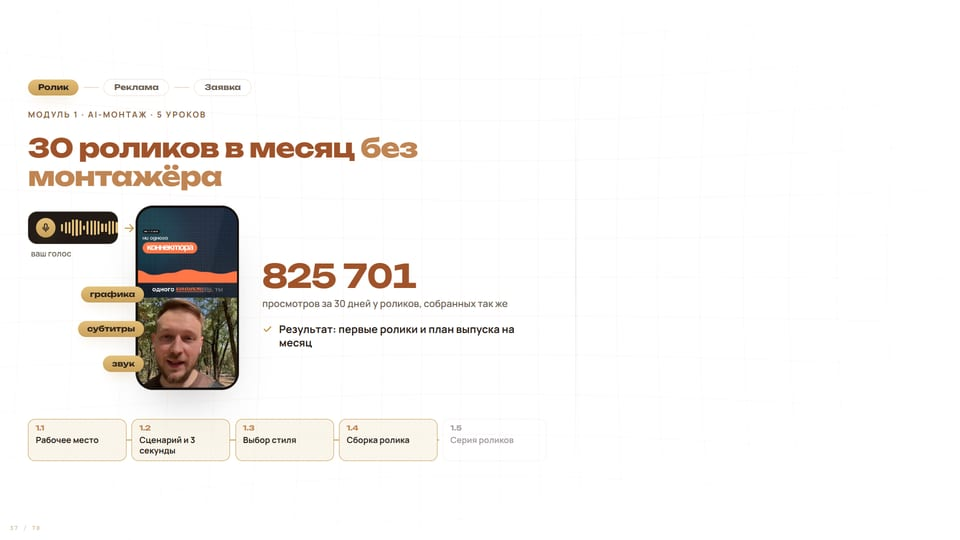
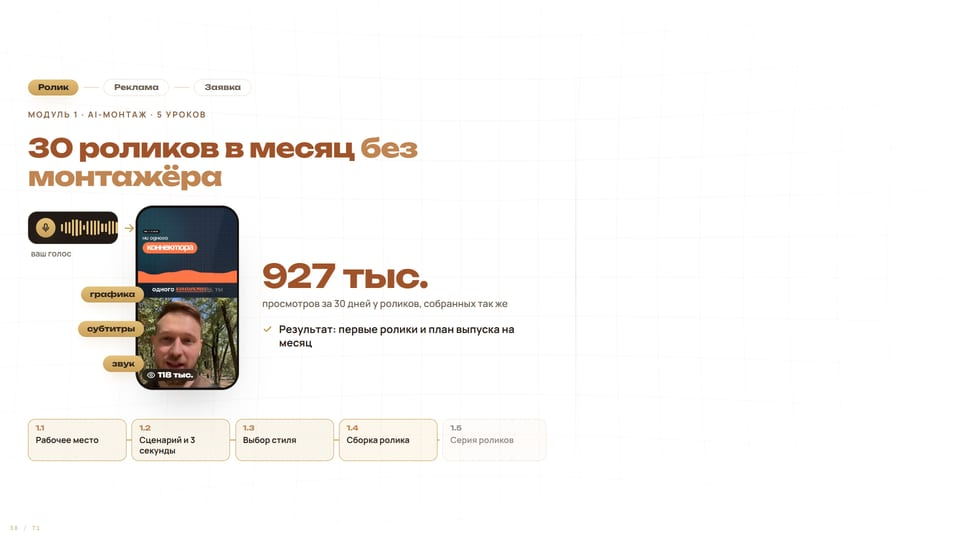
Deck: views summed across Instagram, TikTok and YouTube from 6 Oct screenshots (927k), 10g shows three platform screenshots; cover and link preview say today at 20:00 instead of a date

Changed region(s): [[0.125, 0.5037, 0.25, 0.7111], [0.25, 0.4741, 0.4688, 0.5333]]

diff --git a/components/montage-deck/results.ts b/components/montage-deck/results.ts
@@ -16,22 +16,22 @@ export const RESULTS = {
   /** Месяц в заголовках слайдов результатов 46r и 47r (вне показа 6 октября). */
   month: "Сентябрь",
 
-  /**
-   * 22r · «30 дней: что смонтировал агент». Срез 4 октября 2026, три площадки (docs/tasks/deck_wave2.json).
-   * 825 701 — сумма просмотров Instagram, TikTok и YouTube: не число людей, не охват.
-   */
+  /** Сумма просмотров трёх площадок со скринов 6 октября (RESULTS.growth.platforms): 784 967 + 98 418 + 44,4 тыс. ≈ 927 800.
+   * YouTube Studio округляет до сотен, поэтому на слайдах «927 тыс.». Не число людей, не охват. */
+  totalViews: "927 тыс.",
+  totalViewsNum: 927, // для счётчика, тысячи
+
+  /** 22r · «30 дней: что смонтировал агент». Главная цифра — сумма трёх площадок (totalViews). */
   montage: {
     title: "30 дней: что смонтировал агент",
-    views: 825701 as Stat, // главная цифра
-    viewsLabel: "просмотр в Instagram, TikTok и YouTube",
+    views: "927 тыс." as Stat | string, // главная цифра, как totalViews
+    viewsLabel: "просмотров в Instagram, TikTok и YouTube",
     small: [
       { value: 852, label: "подписчика с одного рилса" }, // без «за 30 дней»: в карточке рилса нет периода
-      { value: 45561, label: "взаимодействие в Instagram" },
-      { value: 1714, label: "чистый прирост подписчиков" }, // 2 321 новых минус 607 отписок, Instagram API
+      { value: 59047, label: "взаимодействий в Instagram" }, // Meta API 05.10, раздатки «00 Аналитика на 05.10»
+      { value: "+1 935", label: "чистый прирост подписчиков" }, // панель Instagram, скрин 06.10 (Telegram Desktop, IMG_8103)
     ] as StatItem[],
-    /** Полоса из 4 обложек залетевших рилсов: имена файлов в public/montage/reels/ (без .jpg), собирает docs/deck-v2/build-handout-assets.mjs. */
-    covers: ["hit-connectors", "hit-gitingest", "hit-artemis", "hit-semrush"],
-    source: "Instagram, TikTok, YouTube · 4 сентября — 3 октября 2026 · срез 4 октября",
+    source: "Instagram и YouTube за 30 и 28 дней, TikTok 30 августа – 26 сентября · скрины 6 октября 2026",
   },
 
   /** 46r · «Сентябрь: ИИ-бот в директе». Статистика бота за весь месяц. */
@@ -101,18 +101,20 @@ export const RESULTS = {
   viralSource: "Instagram · профессиональная панель, топ контента по просмотрам · 5 октября 2026" as string | null,
 
   /**
-   * 10g · «30 дней: охваты и подписчики». Instagram, профессиональная панель, срез 5 октября 2026 (скрины раздаток, 16:50).
-   * Скрины — public/montage/results/growth-reach.* и growth-followers.*; цифры в карточках ровно с этих скринов.
+   * 10g · «30 дней: просмотры на трёх площадках». Скрины Александра 6 октября 2026, 00:49–00:50 (Telegram Desktop, IMG_8101–8103),
+   * обрезаны без статус-бара: public/montage/results/<file>.jpg. Цифры под скринами ровно с них, периоды как в приложениях.
    */
   growth: {
-    reachShot: "growth-reach", // просмотры 784 840, 8,3% / 91,7%, зрители 342 807
-    followersShot: "growth-followers", // подписчики 16 402 и часы наибольшей активности
+    platforms: [
+      { file: "growth-ig", name: "Instagram", views: "784 967", period: "30 дней" },
+      { file: "growth-tiktok", name: "TikTok", views: "98 418", period: "30 авг – 26 сен" },
+      { file: "growth-youtube", name: "YouTube", views: "44,4 тыс.", period: "28 дней" },
+    ],
     stats: [
-      { value: 16402, label: "подписчиков сейчас" },
-      { value: 342807, label: "зрителей за 30 дней" },
-      { value: "91,7%", label: "просмотров от неподписчиков" },
+      { value: "+1 935", label: "чистый прирост подписчиков в Instagram" },
+      { value: "91,7%", label: "просмотров Instagram от неподписчиков" },
     ] as StatItem[],
-    source: "Instagram, последние 30 дней · срез 5 октября 2026 · профессиональная панель" as string | null,
+    source: "Скрины Instagram, TikTok и YouTube Studio, 6 октября 2026. Просмотры сложены, это не число людей" as string | null,
   },
 
   /** 10i · «Обращения за 30 дней»: одна цифра. 101 человек дошёл до раздела с предложениями в директ-боте AI-РОП, без разбивки по услугам и обучению. */

diff --git a/components/montage-deck/slides/results.tsx b/components/montage-deck/slides/results.tsx
@@ -40,7 +40,7 @@ const SmallStat = ({ value, label, i }: { value: Stat | string; label: string; i
 };
 
 /** Главная цифра: объёмная, коричневая. Пустая — спокойное «—» с подписью и пометкой, без объёма. */
-const MainStat = ({ value, label, size }: { value: Stat; label: string; size: string }) =>
+const MainStat = ({ value, label, size }: { value: Stat | string; label: string; size: string }) =>
   value == null ? (
     <In i={0}>
       <Num size={size} color={T.line}>—</Num>
@@ -50,7 +50,7 @@ const MainStat = ({ value, label, size }: { value: Stat; label: string; size: st
       </div>
     </In>
   ) : (
-    <div style={{ marginTop: "1.4cqw" }}><ExtrudedNumber value={fmtStat(value)} label={label} size={size} /></div>
+    <div style={{ marginTop: "1.4cqw" }}><ExtrudedNumber value={typeof value === "string" ? value : fmtStat(value)} label={label} size={size} /></div>
   );
 
 /** 22r · 30 дней: что смонтировал агент. Цифры и подписи — RESULTS.montage (срез 4 октября, три площадки). */
@@ -129,26 +129,39 @@ export function M_ViralReels({ shots = [] }: { shots?: (string | undefined)[] })
   );
 }
 
-/** 10g · 30 дней: охваты и подписчики. Два скрина панели Instagram на плитах, справа три цифры ровно с этих скринов (RESULTS.growth). */
-export function M_Growth30({ reach, followers }: { reach?: string; followers?: string }) {
+/**
+ * 10g · 30 дней: просмотры на трёх площадках. Три скрина (Instagram, TikTok, YouTube Studio) на плитах, под каждым его цифра
+ * и период, справа сумма и две цифры Instagram. Всё ровно со скринов 6 октября (RESULTS.growth, RESULTS.totalViews).
+ */
+export function M_Growth30({ shots = [] }: { shots?: (string | undefined)[] }) {
   const g = RESULTS.growth;
   return (
-    <Statement kicker="Результаты · 30 дней" title={<>30 дней: <Em>охваты и подписчики</Em></>} size="2.6cqw">
-      <div className="grid items-center gap-[1.4cqw]" style={{ gridTemplateColumns: "15cqw 15cqw minmax(0, 1fr)", maxWidth: "54cqw" }}>
-        <div style={{ height: "25cqw" }}>
-          <ScreenStage3D src={reach} alt="Просмотры, подписчики и неподписчики за 30 дней" empty={`Сюда скрин просмотров за 30 дней: results/${g.reachShot}.png`} />
-        </div>
-        <div style={{ height: "25cqw" }}>
-          <ScreenStage3D src={followers} alt="Подписчики и часы наибольшей активности" empty={`Сюда скрин подписчиков: results/${g.followersShot}.png`} />
-        </div>
+    <Statement kicker="Результаты · 30 дней" title={<>{nbsp(RESULTS.totalViews)} просмотров <Em>на трёх площадках</Em></>} size="2.6cqw">
+      <div className="grid items-center gap-[1.4cqw]" style={{ gridTemplateColumns: "repeat(3, 10.4cqw) minmax(0, 1fr)", maxWidth: "54cqw" }}>
+        {g.platforms.map((p, i) => (
+          <In key={p.file} i={i}>
+            <div style={{ height: "17cqw" }}>
+              <ScreenStage3D src={shots[i]} alt={`${p.name}: ${p.views} просмотров, ${p.period}`} empty={`Сюда скрин ${p.name}: results/${p.file}.jpg`} />
+            </div>
+            <div style={{ marginTop: "0.9cqw" }}>
+              <div style={{ ...lbl, fontSize: "0.72cqw", fontWeight: 700, letterSpacing: ".12em", textTransform: "uppercase", color: T.accent }}>{p.name}</div>
+              <Num size="1.5cqw" color={T.brown}>{p.views}</Num>
+              <div style={{ ...lbl, fontSize: "0.7cqw" }}>{p.period}</div>
+            </div>
+          </In>
+        ))}
         <div className="grid gap-[0.7cqw]">
-          {g.stats.map((s, i) => <SmallStat key={s.label} i={i + 1} value={s.value} label={s.label} />)}
+          <SmallStat i={3} value={RESULTS.totalViews} label="просмотров всего" />
+          {g.stats.map((s, i) => <SmallStat key={s.label} i={i + 4} value={s.value} label={s.label} />)}
         </div>
       </div>
-      <Note style={{ marginTop: "1cqw" }}>{g.source ?? <>Источник: <Fill>статистика Instagram, даты периода</Fill></>}</Note>
+      <Note style={{ marginTop: "1cqw" }}>{g.source ?? <>Источник: <Fill>статистика площадок, даты периода</Fill></>}</Note>
     </Statement>
   );
 }
+
+/** Неразрывные пробелы внутри цифры: «927 тыс.» не рвётся на две строки. */
+const nbsp = (s: string) => s.replace(/ /g, " ");
 
 /**
  * 10i · Обращения за 30 дней: объёмная цифра (RESULTS.inquiries) и справа макет Instagram Direct с типичными запросами

diff --git a/components/montage-deck/slides/start.tsx b/components/montage-deck/slides/start.tsx
@@ -189,17 +189,17 @@ export function M_CostStory() {
 }
 
 /**
- * 10 · 30 дней: 825 701 просмотр на трёх площадках, по 5 рилсов в день. Под цифрами бесконечная лента обложек рилсов
+ * 10 · 30 дней: 927 тыс. просмотров на трёх площадках, по 5 рилсов в день. Под цифрами бесконечная лента обложек рилсов
  * со счётчиком просмотров из приложения Instagram (RESULTS.appCovers, раздатки 05.10, папка 04).
- * Цифры из docs/tasks/deck_wave2.json, срез 4 октября. 825 701 — сумма просмотров трёх площадок, не число людей.
+ * 927 тыс. — сумма трёх площадок со скринов 6 октября (RESULTS.totalViews, разбивка на слайде 10g), не число людей.
  */
 export function M_Proof15() {
   const perDay = useCountUp(5, 0.9, 0.3);
-  const views = useCountUp(825701, 1.3, 0.35);
+  const views = useCountUp(RESULTS.totalViewsNum, 1.3, 0.35);
   return (
-    <Statement kicker="Моя статистика" title={<>30 дней: {nb("825 701")} просмотр</>} lead="Рилсы собирает ИИ-агент — каждый сразу выходит в Instagram, TikTok и YouTube." size="2.8cqw">
+    <Statement kicker="Моя статистика" title={<>30 дней: {nb(RESULTS.totalViews)} просмотров</>} lead="Рилсы собирает ИИ-агент — каждый сразу выходит в Instagram, TikTok и YouTube." size="2.8cqw">
       <div className="flex items-stretch gap-[1cqw]">
-        {[[String(perDay), "рилсов в день — сейчас"], [thousands(views), "просмотр в Instagram, TikTok и YouTube"]].map(([v, l], i) => (
+        {[[String(perDay), "рилсов в день — сейчас"], [nb(`${views} тыс.`), "просмотров в Instagram, TikTok и YouTube"]].map(([v, l], i) => (
           <motion.div key={l} {...inUp(i, 0.22)} style={{ ...card, padding: "1cqw 1.6cqw" }}>
             <Num size="3.4cqw" color={T.brown}>{v}</Num>
             <div style={{ ...label, color: T.muted, marginTop: "0.4cqw" }}>{l}</div>
@@ -219,7 +219,7 @@ export function M_Proof15() {
           </div>
         )} />
       </motion.div>
-      <Note style={{ marginTop: "0.9cqw" }}>{RESULTS.appCoversSource}. 825 701: 4 сентября — 3 октября, срез 4 октября, просмотры трёх соцсетей сложены, это не число людей.</Note>
+      <Note style={{ marginTop: "0.9cqw" }}>{RESULTS.appCoversSource}. {RESULTS.totalViews}: просмотры Instagram, TikTok и YouTube сложены по скринам 6 октября, это не число людей.</Note>
     </Statement>
   );
 }

diff --git a/components/montage-deck/MontageDeck.tsx b/components/montage-deck/MontageDeck.tsx
@@ -1,7 +1,7 @@
 "use client";
 
 /**
- * MontageDeck — эфир Vibe Production. Показ 6 октября 2026, 20:00 (до этого — 1 октября).
+ * MontageDeck — эфир Vibe Production. Показ 6 октября 2026, 20:00 (до этого — 1 октября). На слайдах дату не пишем: «сегодня в 20:00».
  * Бренд-код сайтов onai.academy (theme.ts ← fx/brand.ts). Правые 40% кадра — зона камеры: только фон слайда.
  * Режиссура v3 (04.10): интро-ролик → старт → хронология и результаты → практика 1 монтаж → продажа 1 →
  * практика 2 презентация по брифу → практика 3 приложения и сайты → продажа 2 → финал.
@@ -26,7 +26,7 @@ import { M_IntroVideo } from "./slides/intro";
 import { M_DocsHow, M_DocsExample, M_DocsLive, M_AppsBuilds, M_AIStudio, M_AppBrief, M_AppStart, M_AppNext, M_MarketPrice, M_WebApps, M_MainConclusion, M_DeckByAgent } from "./slides/practice";
 
 /** Файлы из public/montage/, которые page.tsx нашёл на диске. Нет файла — на слайде пунктирное место. */
-export type Shots = { intro?: string; doc?: string; reach?: string; followers?: string; viral?: (string | undefined)[] };
+export type Shots = { intro?: string; doc?: string; growth?: (string | undefined)[]; viral?: (string | undefined)[] };
 
 export function MontageDeck({ shots = {} }: { shots?: Shots }) {
   const slides = [
@@ -50,7 +50,7 @@ export function MontageDeck({ shots = {} }: { shots?: Shots }) {
     <M_CostStory key="09" />,
     <M_Proof15 key="10" />,
     <M_ViralReels key="10v" shots={shots.viral} />,
-    <M_Growth30 key="10g" reach={shots.reach} followers={shots.followers} />,
+    <M_Growth30 key="10g" shots={shots.growth} />,
     <M_Inquiries key="10i" />,
     // Практика 1 · AI-монтаж · 20 мин
     <M_Chapter key="11" big="1" obj="lg-ch1-clapper" kicker="Практика 1 из 3" title="Рилс без знаний монтажа" sub="Проблема, первые 3 секунды и монтаж вживую в настроенном чате" />,

diff --git a/components/montage-deck/slides/directions.tsx b/components/montage-deck/slides/directions.tsx
@@ -7,6 +7,7 @@ import { useCountUp } from "@/components/sales-deck/useCountUp";
 import { MontageBg } from "../MontageBg";
 import { Phone } from "../Phone";
 import { Views } from "../ReelRail";
+import { RESULTS } from "../results";
 import { Statement } from "../Statement";
 import { T, card, goldButton, nightCard } from "../theme";
 import { Arrow, EASE, Em, H, Kicker, MaskIcon, Note, Num, Px, Rise, STEP, nb, thousands, txt } from "../ui";
@@ -138,7 +139,7 @@ function Shop({ active, kicker, title, visual, side, lessons, conveyorStart }: {
 /* ───────────── 35 · Цех «Ролик»: голос → ролик ───────────── */
 
 export function M_ShopReel() {
-  const views = useCountUp(825701, 1.1, 0.8);
+  const views = useCountUp(RESULTS.totalViewsNum, 1.1, 0.8);
   return (
     <Shop active={0} kicker="Модуль 1 · AI-монтаж · 5 уроков" title={<>30 роликов в месяц <Em>без монтажёра</Em></>} conveyorStart={1.5}
       lessons={["Рабочее место", "Сценарий и 3 секунды", "Выбор стиля", "Сборка ролика", "Серия роликов"]}
@@ -170,7 +171,7 @@ export function M_ShopReel() {
       side={
         <>
           <motion.div initial={{ opacity: 0, y: "1cqw" }} animate={{ opacity: 1, y: "0cqw" }} transition={{ delay: 0.9, duration: 0.4, ease: EASE }}>
-            <Num size="3.4cqw" color={T.brown}>{thousands(views)}</Num>
+            <Num size="3.4cqw" color={T.brown}>{nb(`${views} тыс.`)}</Num>
             <div style={{ ...txt, fontSize: "1cqw", color: T.muted, marginTop: "0.5cqw" }}>просмотров за 30 дней у роликов, собранных так же</div>
           </motion.div>
           <ResultLine delay={1.6}>Результат: первые ролики и план выпуска на месяц</ResultLine>

diff --git a/app/montage/page.tsx b/app/montage/page.tsx
@@ -5,10 +5,10 @@ import { RESULTS } from "@/components/montage-deck/results";
 
 export const metadata = {
   title: "Vibe Production · эфир",
-  description: "Рилсы без знаний монтажа: эфир 6 октября, 20:00 по Алматы.",
+  description: "Рилсы без знаний монтажа: эфир сегодня в 20:00 по Алматы.",
   robots: { index: false, follow: false },
-  // Своя карточка ссылки вместо обложки воркшопа из корневого layout
-  openGraph: { title: "Vibe Production · эфир 6 октября", description: "Рилсы без знаний монтажа.", images: [{ url: "/montage/og.jpg", width: 1200, height: 630 }] },
+  // Своя карточка ссылки вместо обложки воркшопа из корневого layout; без конкретной даты (Александр 06.10)
+  openGraph: { title: "Vibe Production · эфир сегодня в 20:00", description: "Рилсы без знаний монтажа.", images: [{ url: "/montage/og.jpg", width: 1200, height: 630 }] },
 };
 
 /** Скриншот результатов показываем, только если файл уже лежит в public/montage/results/ — иначе на слайде пунктирное место. Расширение любое из списка. */
@@ -24,8 +24,7 @@ export default function MontagePage() {
     <MontageDeck shots={{
       intro,
       doc: resultShot("doc-example"),
-      reach: resultShot(RESULTS.growth.reachShot),
-      followers: resultShot(RESULTS.growth.followersShot),
+      growth: RESULTS.growth.platforms.map((p) => resultShot(p.file)),
       viral: RESULTS.viral.map((r) => resultShot(r.file)),
     }} />
   );

diff --git a/components/montage-deck/slides/M_Cover.tsx b/components/montage-deck/slides/M_Cover.tsx
@@ -35,7 +35,8 @@ export function M_Cover() {
         <Rise delay={STEP * 2}><H size="4.6cqw" color={T.nightText} style={{ lineHeight: 1.04 }}>Рилсы без знаний <Em night>монтажа</Em></H></Rise>
         <Rise delay={STEP * 3}><Lead color={T.nightMuted} style={{ marginTop: "1.8cqw", fontSize: "1.35cqw" }}>Монтирует ИИ-агент по вашему голосу. Презентации и сайты — тоже ИИ.</Lead></Rise>
         <Rise delay={STEP * 4} className="flex flex-wrap gap-[0.6cqw]" style={{ marginTop: "2.4cqw" }}>
-          <Chip night>Вторник, 6 октября</Chip><Chip gold>20:00</Chip><Chip night>3 практики за вечер</Chip>
+          {/* без конкретной даты: Александр 06.10 «просто сегодня в 20:00» */}
+          <Chip gold>Сегодня в 20:00</Chip><Chip night>3 практики за вечер</Chip>
         </Rise>
       </div>
     </SlideLayout>
